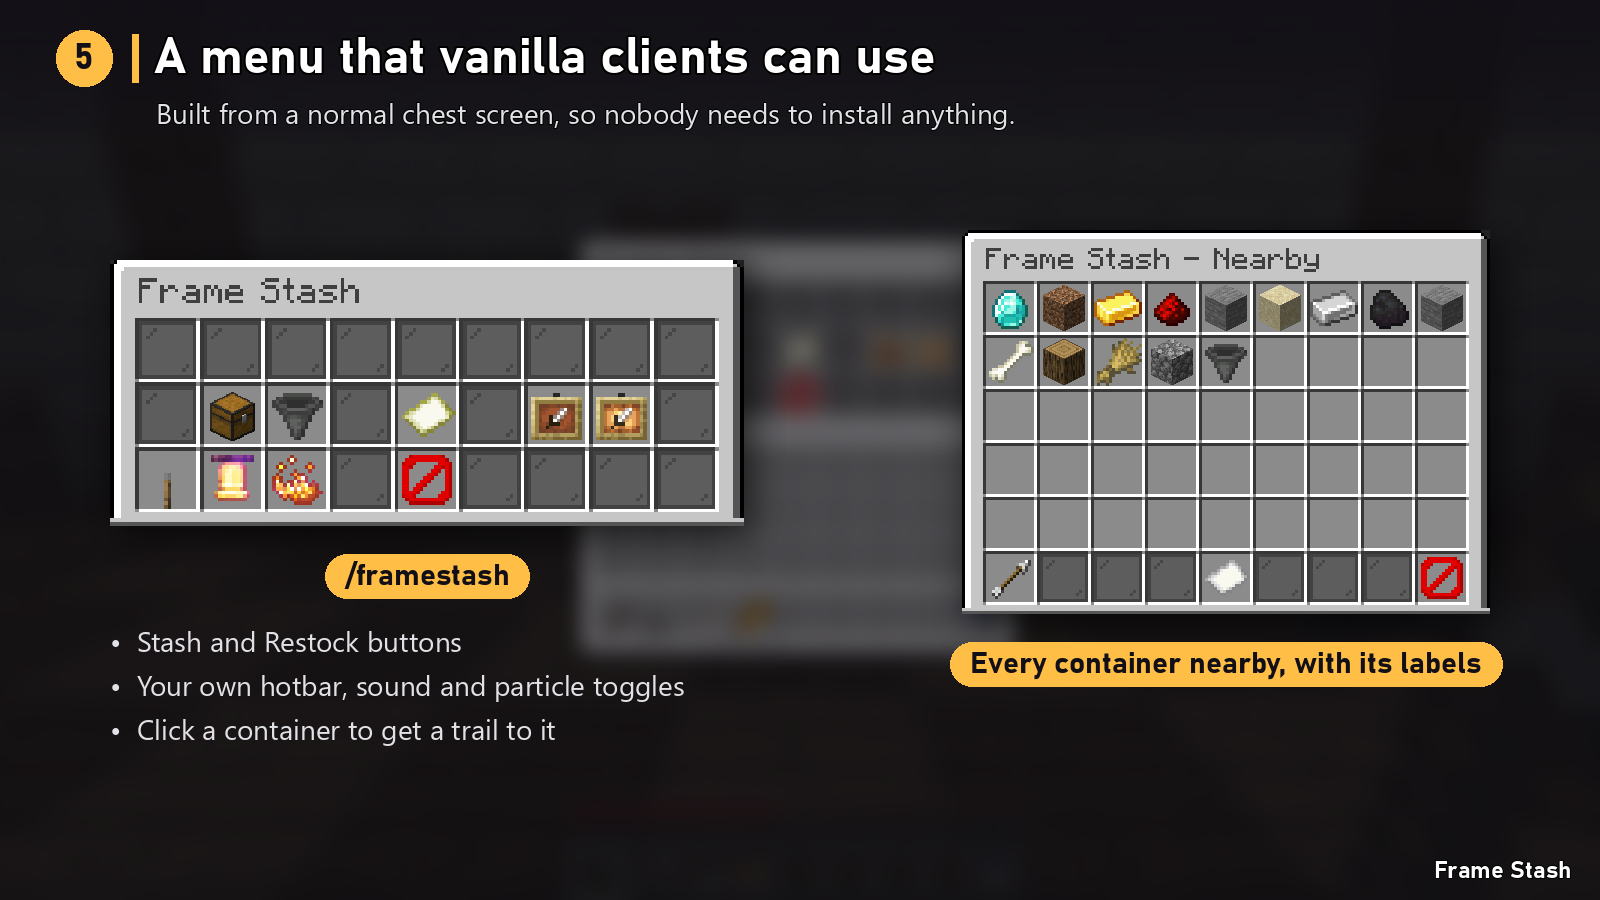
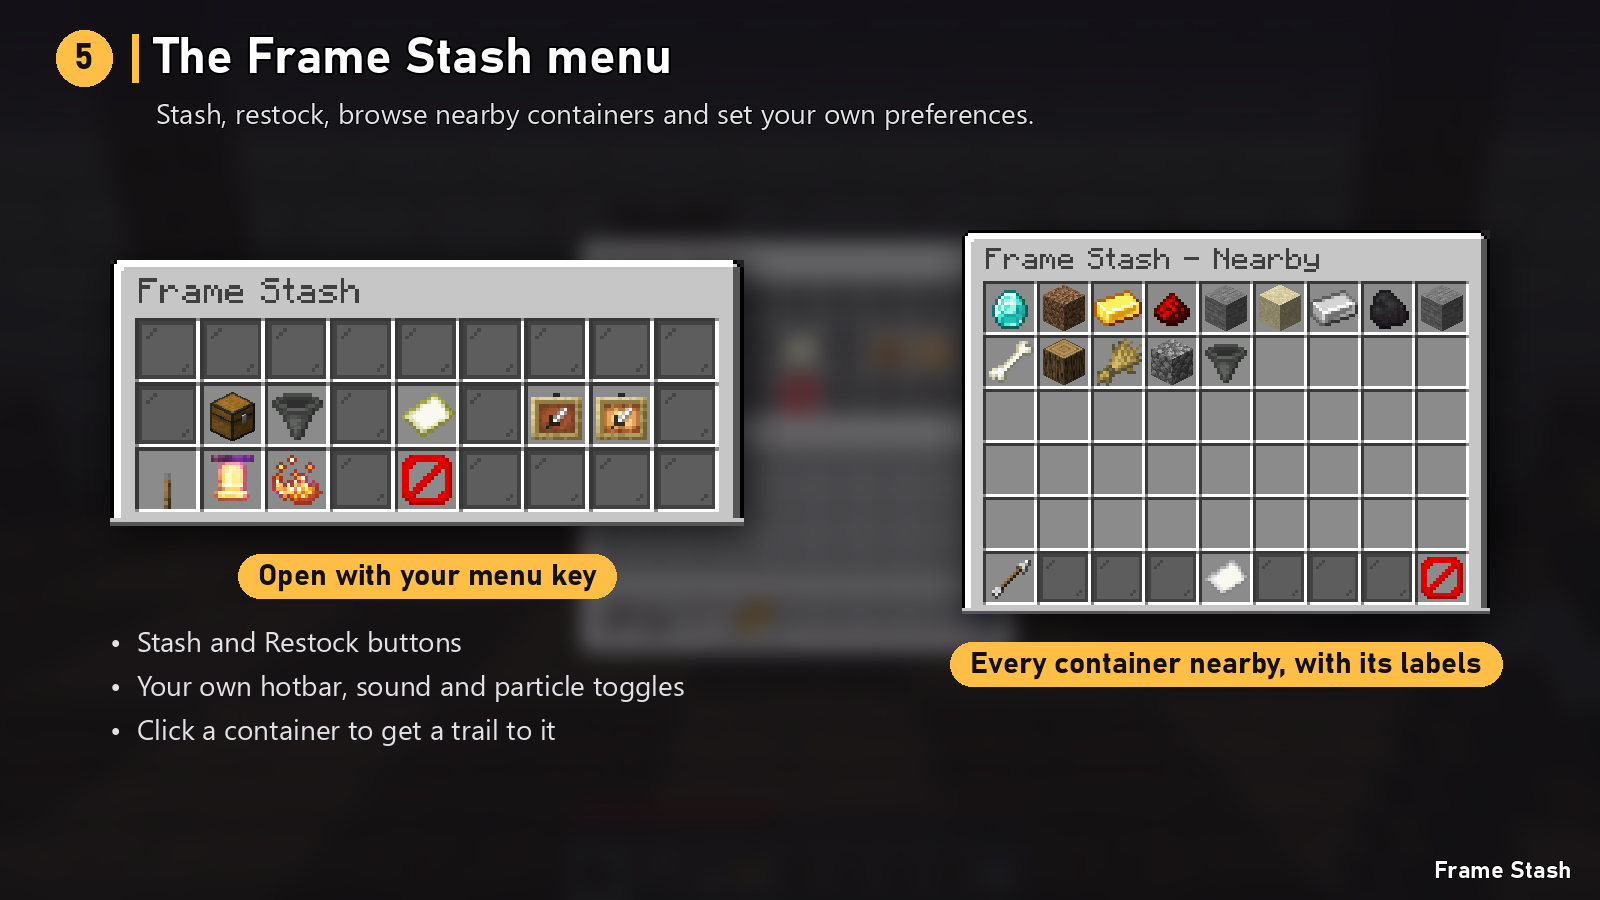
Description: keybinds only, no commands, no server-side or version wording
Also updates the in-game mod description and the menu/how-it-works images.

Changed region(s): [[0.0938, 0.0311, 0.6562, 0.1556], [0.125, 0.5911, 0.4062, 0.6844]]

diff --git a/docs/curseforge/description.html b/docs/curseforge/description.html
@@ -64,7 +64,7 @@
 </ul>
 <h3>The Frame Stash menu</h3>
 <p><img alt="The Frame Stash menu" src="https://raw.githubusercontent.com/marso006/frame-stash/main/docs/images/5_menu.png" /></p>
-<p>Open it with your menu key or <code>/framestash</code>:</p>
+<p>Open it with your <strong>menu key</strong> (set it once under Controls):</p>
 <ul>
 <li><strong>Stash</strong> and <strong>Restock</strong> buttons</li>
 <li><strong>Nearby containers:</strong> every labelled container around you, with its labels, how full it is, and a warning if it can't be used. Click one and a particle trail shows you the way.</li>
@@ -72,63 +72,20 @@
 </ul>
 <hr />
 <h2>Installing</h2>
-<table>
-<thead>
-<tr>
-<th>Where</th>
-<th>Needed?</th>
-<th>What you get</th>
-</tr>
-</thead>
-<tbody>
-<tr>
-<td><strong>Server</strong> (or singleplayer)</td>
-<td><strong>Required</strong></td>
-<td>Stashing, restocking, the menu</td>
-</tr>
-<tr>
-<td><strong>Your client</strong></td>
-<td>Recommended</td>
-<td>The <strong>G</strong> and <strong>H</strong> keybinds</td>
-</tr>
-</tbody>
-</table>
-<p>Fabric needs <a href="https://modrinth.com/mod/fabric-api">Fabric API</a>. NeoForge needs nothing else. Check the <strong>Files</strong> tab for the Minecraft versions each file supports.</p>
-<p><strong>Playing on a server where you don't have the mod installed?</strong> Everything still works through commands and the menu:</p>
-<table>
-<thead>
-<tr>
-<th>Command</th>
-<th>Same as</th>
-</tr>
-</thead>
-<tbody>
-<tr>
-<td><code>/stash</code></td>
-<td>G</td>
-</tr>
-<tr>
-<td><code>/restock</code></td>
-<td>H</td>
-</tr>
-<tr>
-<td><code>/framestash</code></td>
-<td>Menu key</td>
-</tr>
-<tr>
-<td><code>/framestash info</code></td>
-<td>Lists labelled containers nearby</td>
-</tr>
-</tbody>
-</table>
+<ol>
+<li>Drop Frame Stash into your <code>mods</code> folder. On Fabric, also add <a href="https://modrinth.com/mod/fabric-api">Fabric API</a>.</li>
+<li>Playing with friends? Add it to the multiplayer world's <code>mods</code> folder too.</li>
+<li>Start the game, hang some frames and press <strong>G</strong>.</li>
+</ol>
+<p>Check the <strong>Files</strong> tab for the Minecraft versions and loaders each file supports.</p>
 <hr />
-<h2>For server owners</h2>
+<h2>For multiplayer worlds</h2>
 <ul>
 <li><strong>Respects protection.</strong> Locked chests, claimed or protected areas, spawn protection and chests blocked by a block on top are skipped. Fabric claim mods are asked through the bundled Common Protection API, NeoForge ones through the standard interaction event.</li>
 <li><strong>Safe by design.</strong> Every stash is planned first and then applied with fresh checks, so items are never lost or duplicated, even when several players use the same chests.</li>
-<li><strong>Light on performance.</strong> Nothing runs in the background; work happens only when someone presses the key.</li>
+<li><strong>Light on performance.</strong> Nothing runs in the background; work only happens when someone presses a key.</li>
 <li><strong>Bigger stacks friendly.</strong> Stack limits come from the item and the container, never a fixed 64, so stack-size mods and data packs just work.</li>
-<li><strong>Configurable.</strong> <code>config/frame_stash.toml</code>, reloaded in game with <code>/framestash reload</code>. Add more container blocks with the block tag <code>frame_stash:containers</code>.</li>
+<li><strong>Configurable.</strong> Edit <code>config/frame_stash.toml</code>, then apply it in game with the <strong>Reload config</strong> button in the menu (operators only). Data packs can add more container blocks through the block tag <code>frame_stash:containers</code>.</li>
 </ul>
 <table>
 <thead>
@@ -182,7 +139,7 @@
 <tr>
 <td><code>commandPermissionLevel</code></td>
 <td>0</td>
-<td>Who can stash, restock and open the menu (0 = everyone)</td>
+<td>Who can stash, restock and open the menu (0 = everyone, 2 = operators only)</td>
 </tr>
 <tr>
 <td><code>skipBlockedChests</code></td>
@@ -203,8 +160,8 @@
 </table>
 <hr />
 <h2>FAQ</h2>
-<p><strong>Do I have to install it on my client?</strong>
-Only if you want the keybinds. The server does all the work. Without the client install you use <code>/stash</code>, <code>/restock</code> and <code>/framestash</code> instead.</p>
+<p><strong>Where do I install it?</strong>
+In your <code>mods</code> folder. For multiplayer, the world you join needs it too.</p>
 <p><strong>Will it put items in my locked or claimed chests?</strong>
 No. Anything you couldn't open yourself is skipped.</p>
 <p><strong>What are glow item frames for?</strong>

diff --git a/docs/tools/make_images.py b/docs/tools/make_images.py
@@ -238,7 +238,7 @@ def menu():
     b = chest_rows(b, 6, 1.0)
     shadowed_paste(img, a, (110, 260))
     shadowed_paste(img, b, (W - 110 - b.width, 230))
-    badge(img, "/framestash", (110 + a.width // 2, 260 + a.height + 50))
+    badge(img, "Open with your menu key", (110 + a.width // 2, 260 + a.height + 50))
     badge(img, "Every container nearby, with its labels", (W - 110 - b.width // 2, 230 + b.height + 50))
     d = ImageDraw.Draw(img)
     f = font(28, bold=False)
@@ -246,8 +246,8 @@ def menu():
              "Click a container to get a trail to it"]
     for i, line in enumerate(lines):
         d.text((110, 640 + i * 44), "•  " + line, font=f, fill=SOFT, anchor="lm")
-    title_bar(img, "A menu that vanilla clients can use",
-              "Built from a normal chest screen, so nobody needs to install anything.", step=5)
+    title_bar(img, "The Frame Stash menu",
+              "Stash, restock, browse nearby containers and set your own preferences.", step=5)
     watermark(img)
     save(img, "5_menu.png")
 
@@ -259,7 +259,7 @@ def how_it_works():
     title_bar(img, "How it works")
     steps = [("1", "Hang a frame", "on a chest, barrel or shulker box"),
              ("2", "Put an item in it", "that item now lives there"),
-             ("3", "Press G", "everything goes home (or type /stash)")]
+             ("3", "Press G", "everything goes to its home")]
     d = ImageDraw.Draw(img)
     card_w, gap = 440, 40
     x = (W - (card_w * 3 + gap * 2)) // 2

diff --git a/docs/curseforge/description.md b/docs/curseforge/description.md
@@ -68,7 +68,7 @@ A short summary on your action bar ("Stashed 705 items into 14 containers"), a p
 
 ![The Frame Stash menu](https://raw.githubusercontent.com/marso006/frame-stash/main/docs/images/5_menu.png)
 
-Open it with your menu key or `/framestash`:
+Open it with your **menu key** (set it once under Controls):
 
 - **Stash** and **Restock** buttons
 - **Nearby containers:** every labelled container around you, with its labels, how full it is, and a warning if it can't be used. Click one and a particle trail shows you the way.
@@ -78,31 +78,21 @@ Open it with your menu key or `/framestash`:
 
 ## Installing
 
-| Where | Needed? | What you get |
-| --- | --- | --- |
-| **Server** (or singleplayer) | **Required** | Stashing, restocking, the menu |
-| **Your client** | Recommended | The **G** and **H** keybinds |
+1. Drop Frame Stash into your `mods` folder. On Fabric, also add [Fabric API](https://modrinth.com/mod/fabric-api).
+2. Playing with friends? Add it to the multiplayer world's `mods` folder too.
+3. Start the game, hang some frames and press **G**.
 
-Fabric needs [Fabric API](https://modrinth.com/mod/fabric-api). NeoForge needs nothing else. Check the **Files** tab for the Minecraft versions each file supports.
-
-**Playing on a server where you don't have the mod installed?** Everything still works through commands and the menu:
-
-| Command | Same as |
-| --- | --- |
-| `/stash` | G |
-| `/restock` | H |
-| `/framestash` | Menu key |
-| `/framestash info` | Lists labelled containers nearby |
+Check the **Files** tab for the Minecraft versions and loaders each file supports.
 
 ---
 
-## For server owners
+## For multiplayer worlds
 
 - **Respects protection.** Locked chests, claimed or protected areas, spawn protection and chests blocked by a block on top are skipped. Fabric claim mods are asked through the bundled Common Protection API, NeoForge ones through the standard interaction event.
 - **Safe by design.** Every stash is planned first and then applied with fresh checks, so items are never lost or duplicated, even when several players use the same chests.
-- **Light on performance.** Nothing runs in the background; work happens only when someone presses the key.
+- **Light on performance.** Nothing runs in the background; work only happens when someone presses a key.
 - **Bigger stacks friendly.** Stack limits come from the item and the container, never a fixed 64, so stack-size mods and data packs just work.
-- **Configurable.** `config/frame_stash.toml`, reloaded in game with `/framestash reload`. Add more container blocks with the block tag `frame_stash:containers`.
+- **Configurable.** Edit `config/frame_stash.toml`, then apply it in game with the **Reload config** button in the menu (operators only). Data packs can add more container blocks through the block tag `frame_stash:containers`.
 
 | Setting | Default | What it does |
 | --- | --- | --- |
@@ -114,7 +104,7 @@ Fabric needs [Fabric API](https://modrinth.com/mod/fabric-api). NeoForge needs n
 | `catchAllItem` | `"minecraft:hopper"` | Item that marks a catch-all. `""` turns it off |
 | `cooldownTicks` | 20 | Minimum time between stashes per player |
 | `particles`, `sound`, `actionBar` | true | Feedback toggles |
-| `commandPermissionLevel` | 0 | Who can stash, restock and open the menu (0 = everyone) |
+| `commandPermissionLevel` | 0 | Who can stash, restock and open the menu (0 = everyone, 2 = operators only) |
 | `skipBlockedChests` | true | Skip chests vanilla wouldn't open |
 | `protectionCheck` | true | Ask claim and protection mods before using a container |
 | `sneakGesture` | false | Sneak and right-click a labelled container with an empty hand to stash |
@@ -123,8 +113,8 @@ Fabric needs [Fabric API](https://modrinth.com/mod/fabric-api). NeoForge needs n
 
 ## FAQ
 
-**Do I have to install it on my client?**
-Only if you want the keybinds. The server does all the work. Without the client install you use `/stash`, `/restock` and `/framestash` instead.
+**Where do I install it?**
+In your `mods` folder. For multiplayer, the world you join needs it too.
 
 **Will it put items in my locked or claimed chests?**
 No. Anything you couldn't open yourself is skipped.

diff --git a/README.md b/README.md
@@ -2,9 +2,9 @@
 
 # Frame Stash
 
-Label chests with item frames, then quick stack, restock and overflow into them. Server-side; vanilla clients can join.
+Label chests with item frames, then press **G** to stash and **H** to restock.
 
-Minecraft 1.21.10 · Fabric and NeoForge · MIT licence · [How to test it yourself](TESTING.md)
+Fabric and NeoForge · MIT licence · [How to test it yourself](TESTING.md)
 
 ![Demo](docs/images/demo.gif)
 
